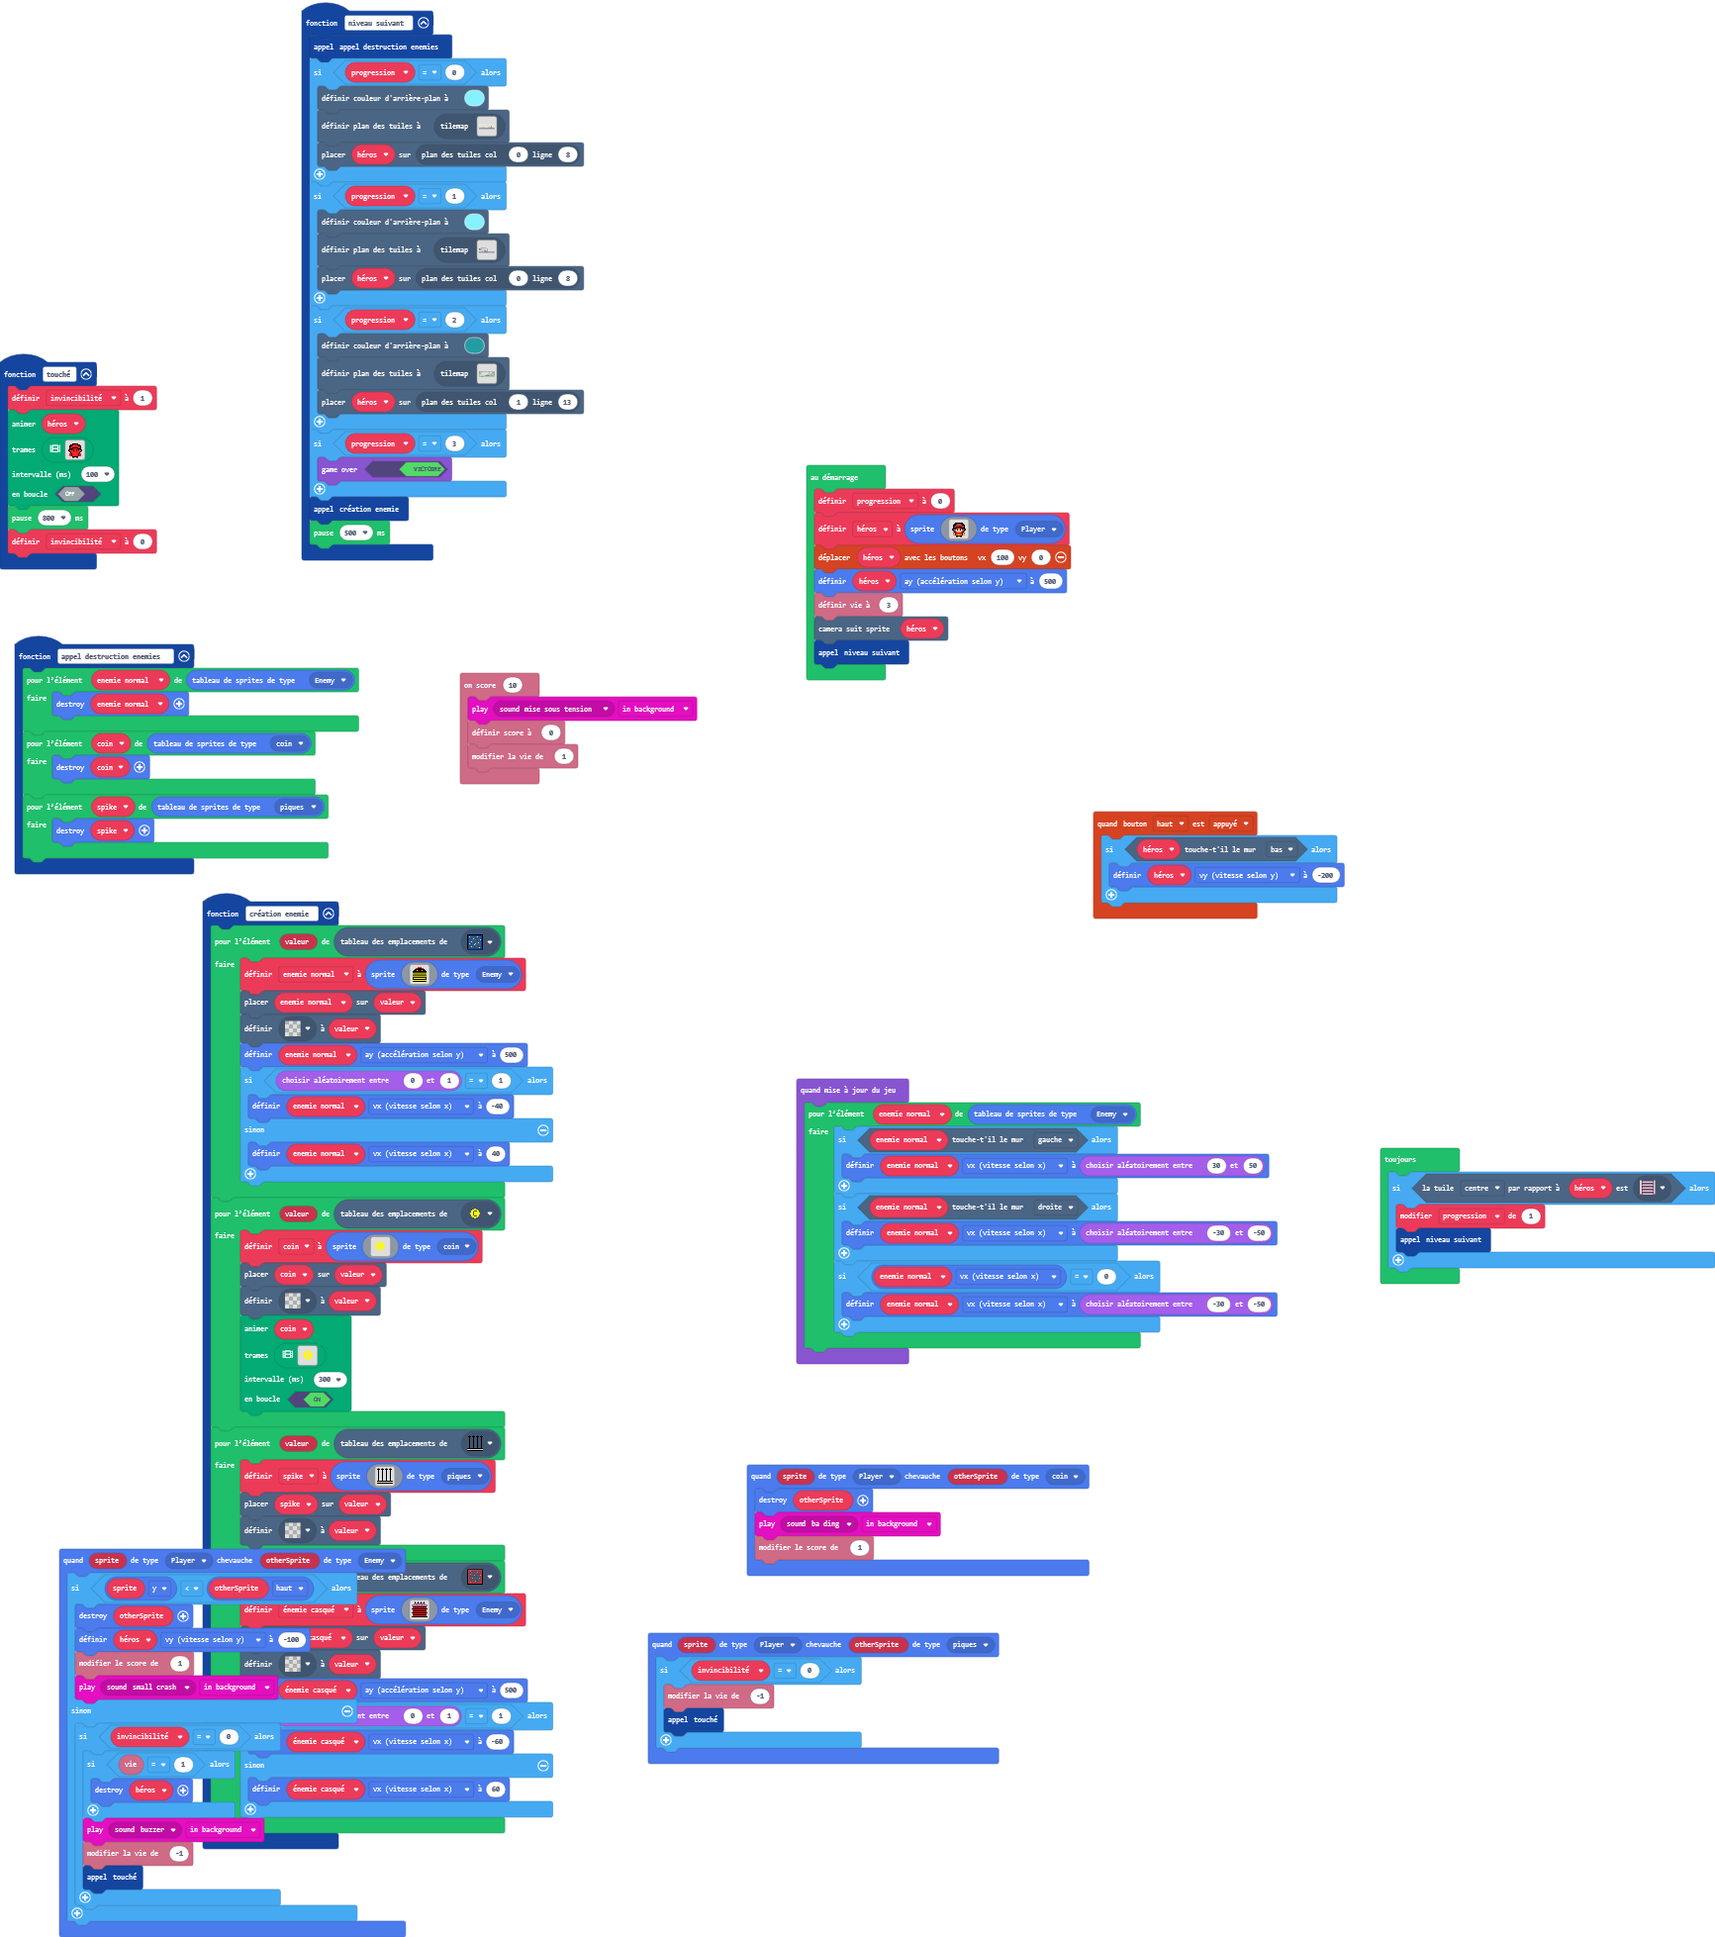
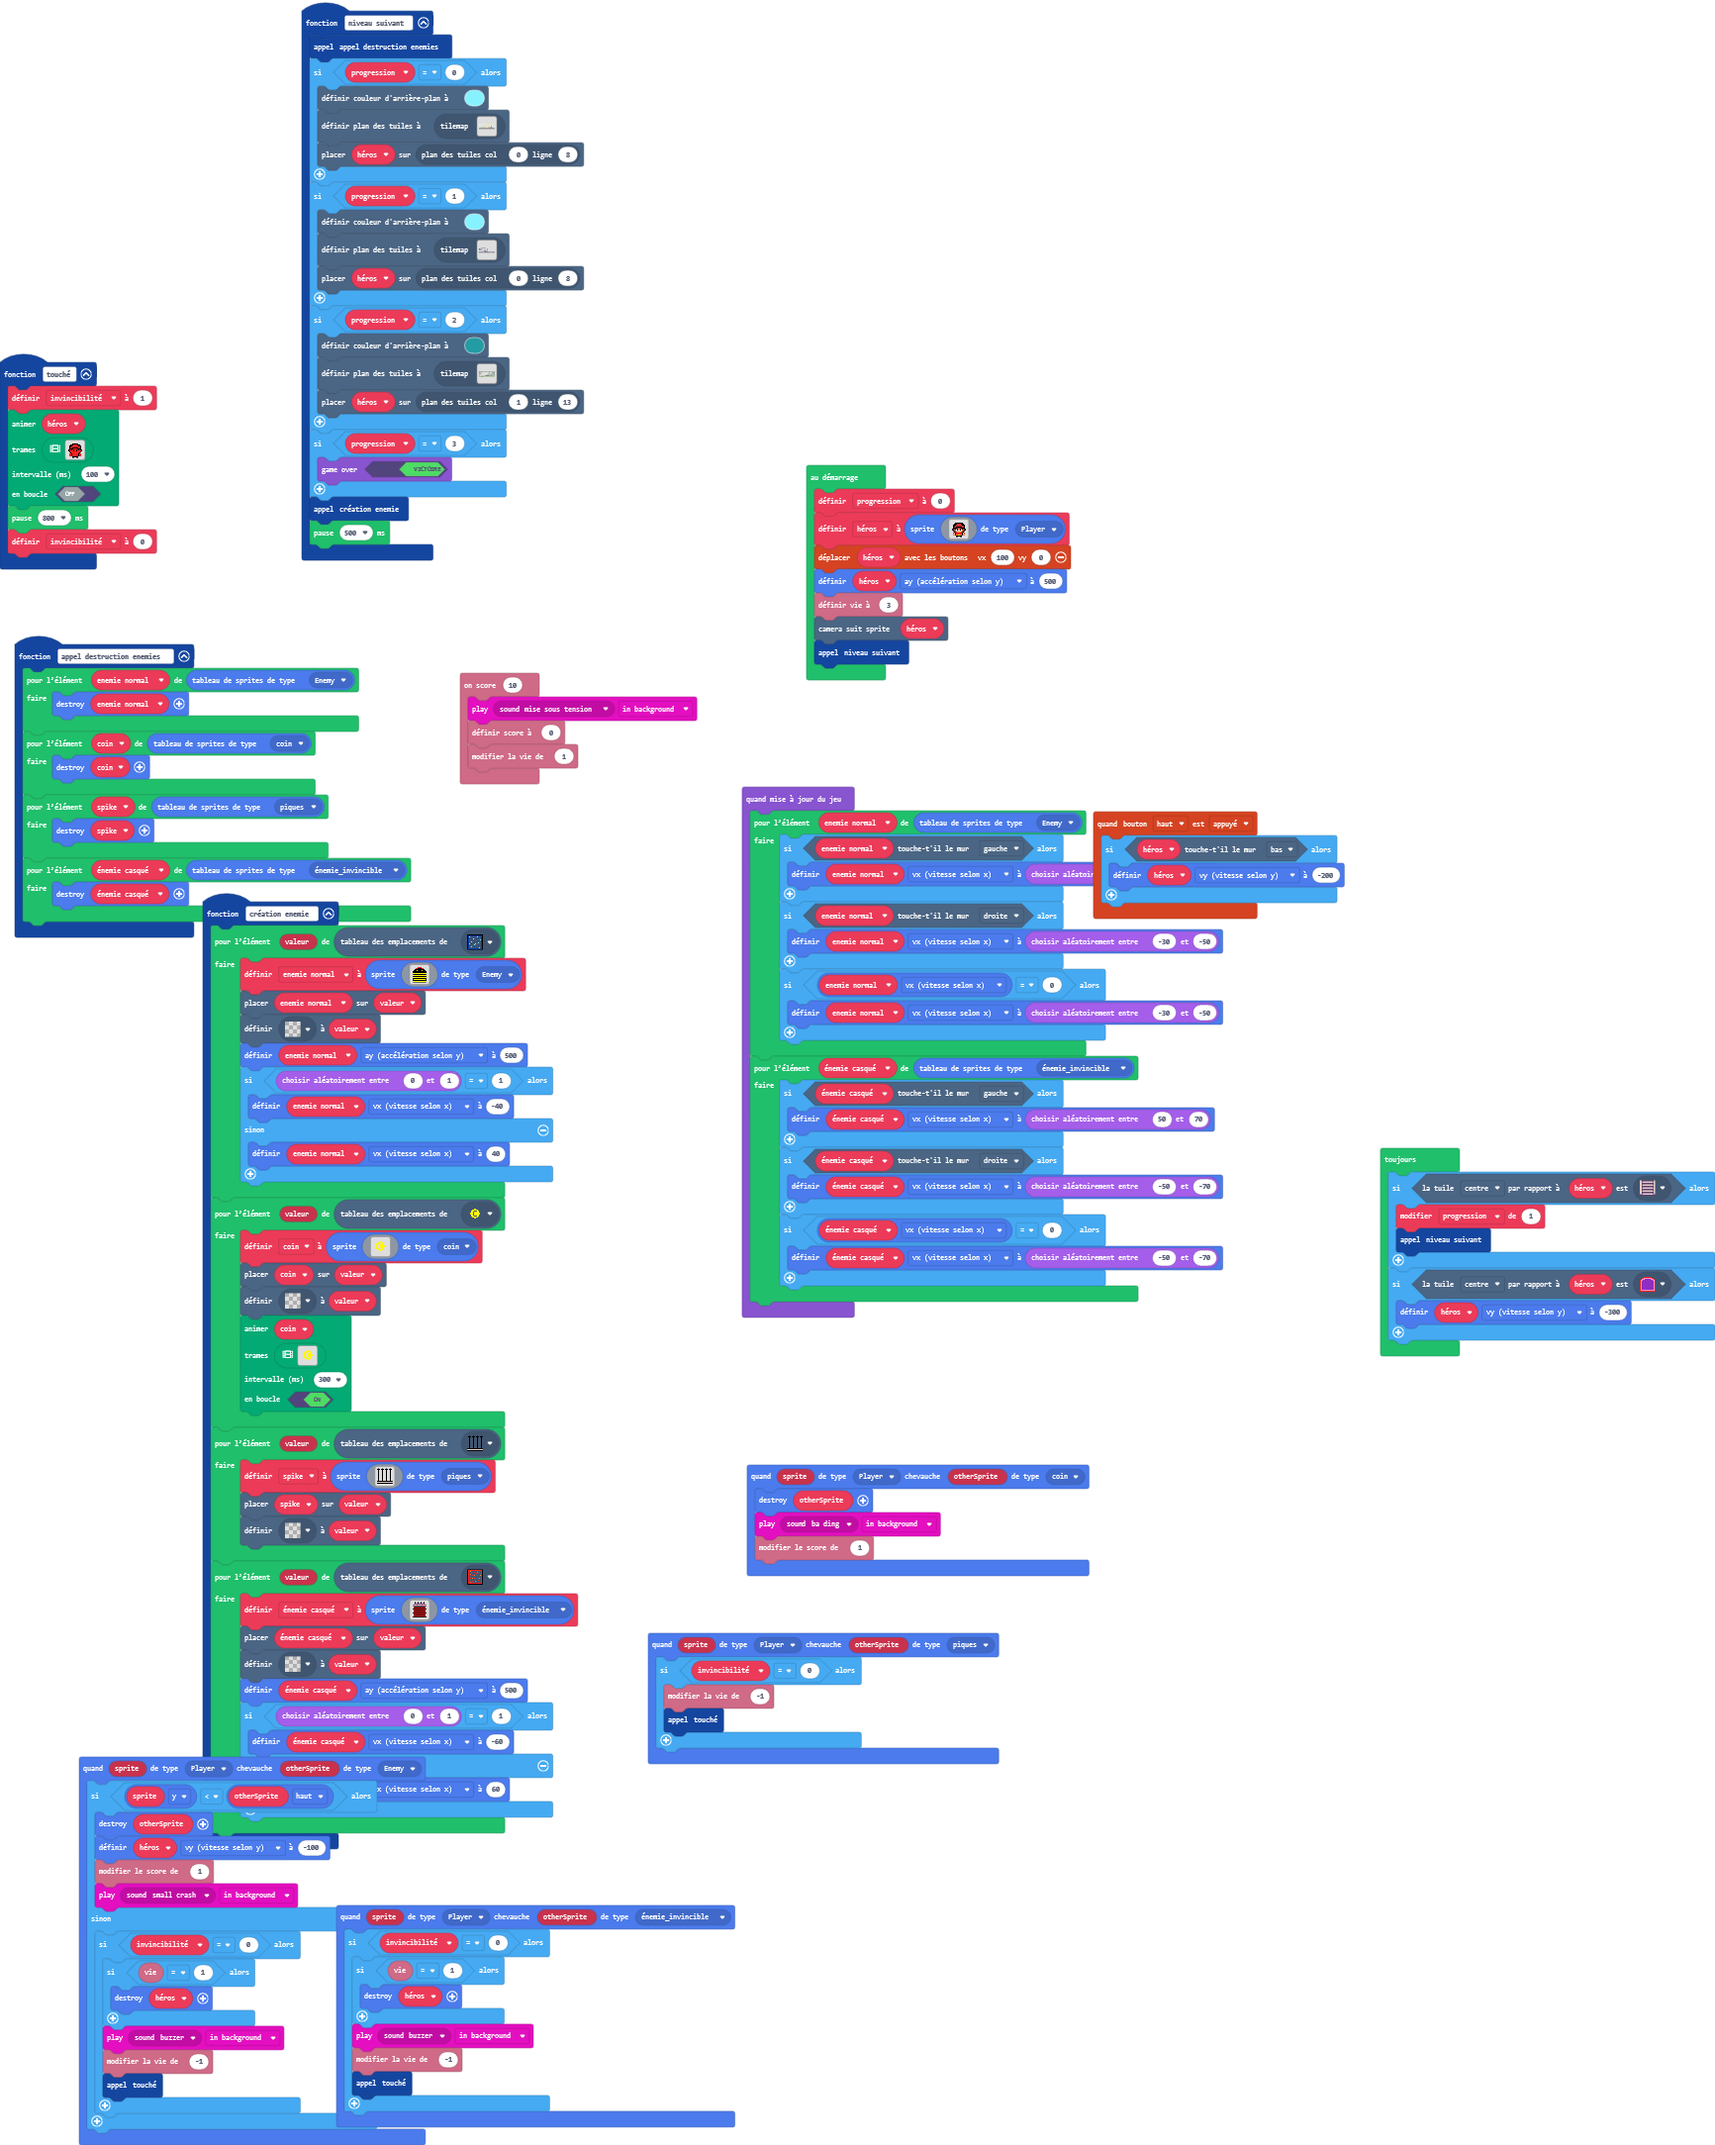
Mise à jour main.blocks, main.ts, tilemap.g.jres, tilemap.g.ts

Changed region(s): [[0.0, 0.0, 0.779, 1.0], [0.779, 0.5299, 1.0, 0.6857]]

diff --git a/tilemap.g.ts b/tilemap.g.ts
@@ -18,6 +18,8 @@ namespace myTiles {
     export const tile7 = image.ofBuffer(hex``);
     //% fixedInstance jres blockIdentity=images._tile
     export const tile8 = image.ofBuffer(hex``);
+    //% fixedInstance jres blockIdentity=images._tile
+    export const tile9 = image.ofBuffer(hex``);
 
     helpers._registerFactory("tilemap", function(name: string) {
         switch(helpers.stringTrim(name)) {
@@ -192,8 +194,21 @@ namespace myTiles {
 . . . . . . . . . . . . . . . . 
 . . . . . . . . . . . . . . . . 
 `, [myTiles.transparency16], TileScale.Sixteen);
+            case "monde1-1":
[1 lines of base64/hex data omitted]
+. . . . . . . . . . . . . . . . . . . . . . . . . . . . . . 
+. . . . . . . . . . . . . . . . . . . . . . . . . . . . . . 
+. . . . . . . . . . . . . . . . . . . . . . . . . . . . . . 
+. . . . . . . . . . . . . . . . . . . . . . . . . . . . . . 
+. . . . . . . . . . . . . . . . . . . . . . . 2 . . . . . . 
+. . . . . . . . . . . . . . . . . . . . . . . 2 . . . . . . 
+. . . . . . . . . . . . . . . . . . . . 2 . . 2 . . . . . . 
+. . . . 2 . . . . . 2 . . . . . . 2 . . 2 . . 2 . . . . . . 
+. . . . 2 . . . . . 2 . . . 2 . . 2 . . 2 . . 2 . . . . . . 
+2 2 2 2 2 2 2 2 2 2 2 2 2 2 2 2 2 2 2 2 2 2 2 2 2 2 2 2 2 2 
+`, [myTiles.transparency16,myTiles.tile1,sprites.builtin.forestTiles24,sprites.swamp.swampTile0,myTiles.tile3,sprites.dungeon.stairNorth,myTiles.tile5,myTiles.tile4,myTiles.tile6], TileScale.Sixteen);
             case "monde2-1":
[2 lines of base64/hex data omitted]
 2222222222222222222222222222222222222222
 2......................................2
 2.....222..............................2
@@ -209,22 +224,9 @@ namespace myTiles {
 2...2..2...2.........................2..
 2...2..2...2............................
 2222222222222222222222222222222222222222
-`, [myTiles.transparency16,myTiles.tile6,sprites.dungeon.floorLight1,sprites.dungeon.greenOuterNorth1,sprites.dungeon.greenOuterNorth0,myTiles.tile3,myTiles.tile4,sprites.dungeon.stairNorth,myTiles.tile2], TileScale.Sixteen);
-            case "monde1-1":
[1 lines of base64/hex data omitted]
-. . . . . . . . . . . . . . . . . . . . . . . . . . . . . . 
-. . . . . . . . . . . . . . . . . . . . . . . . . . . . . . 
-. . . . . . . . . . . . . . . . . . . . . . . . . . . . . . 
-. . . . . . . . . . . . . . . . . . . . . . . . . . . . . . 
-. . . . . . . . . . . . . . . . . . . . . . . 2 . . . . . . 
-. . . . . . . . . . . . . . . . . . . . . . . 2 . . . . . . 
-. . . . . . . . . . . . . . . . . . . . 2 . . 2 . . . . . . 
-. . . . 2 . . . . . 2 . . . . . . 2 . . 2 . . 2 . . . . . . 
-. . . . 2 . . . . . 2 . . . 2 . . 2 . . 2 . . 2 . . . . . . 
-2 2 2 2 2 2 2 2 2 2 2 2 2 2 2 2 2 2 2 2 2 2 2 2 2 2 2 2 2 2 
-`, [myTiles.transparency16,myTiles.tile1,sprites.builtin.forestTiles24,sprites.swamp.swampTile0,myTiles.tile3,sprites.dungeon.stairNorth,myTiles.tile5,myTiles.tile4,myTiles.tile6], TileScale.Sixteen);
+`, [myTiles.transparency16,myTiles.tile6,sprites.dungeon.floorLight1,sprites.dungeon.greenOuterNorth1,sprites.dungeon.greenOuterNorth0,myTiles.tile3,myTiles.tile4,sprites.dungeon.stairNorth,myTiles.tile2,myTiles.tile8], TileScale.Sixteen);
             case "monde1-2":
[2 lines of base64/hex data omitted]
 . . . . . . . . . . . . . . . . . . . . . . . . . . . . . . 
 . . . . . 2 2 2 2 2 2 2 2 . . . . . . . . . . . . . . . . . 
 . 2 2 2 2 . . . . . . . . . . 2 . . . . . . . . . . . . . . 
@@ -235,7 +237,7 @@ namespace myTiles {
 . . . . . . 2 . . . 2 2 2 . . 2 . . . . . . . . . . . . . . 
 . . . 2 . . 2 . . . 2 2 2 2 . 2 . . . . . . . . . . . . . . 
 2 2 2 2 2 2 2 2 2 2 2 2 2 2 2 2 2 2 2 2 2 2 2 2 2 2 2 2 2 2 
-`, [myTiles.transparency16,myTiles.tile6,sprites.swamp.swampTile1,sprites.builtin.forestTiles25,myTiles.tile7,sprites.dungeon.stairNorth,myTiles.tile4,myTiles.tile3], TileScale.Sixteen);
+`, [myTiles.transparency16,myTiles.tile6,sprites.swamp.swampTile1,sprites.builtin.forestTiles25,myTiles.tile7,sprites.dungeon.stairNorth,myTiles.tile4,myTiles.tile3,myTiles.tile8,myTiles.tile9], TileScale.Sixteen);
         }
         return null;
     })
@@ -259,6 +261,8 @@ namespace myTiles {
             case "tile7":return tile7;
             case "myTile5":
             case "tile8":return tile8;
+            case "myTile6":
+            case "tile9":return tile9;
         }
         return null;
     })

diff --git a/main.ts b/main.ts
@@ -1,6 +1,7 @@
 namespace SpriteKind {
     export const coin = SpriteKind.create()
     export const piques = SpriteKind.create()
+    export const énemie_invincible = SpriteKind.create()
 }
 function appel_destruction_enemies () {
     for (let enemie_normal2 of sprites.allOfKind(SpriteKind.Enemy)) {
@@ -11,6 +12,9 @@ function appel_destruction_enemies () {
     }
     for (let spike of sprites.allOfKind(SpriteKind.piques)) {
         sprites.destroy(spike)
+    }
+    for (let énemie_casqué2 of sprites.allOfKind(SpriteKind.énemie_invincible)) {
+        sprites.destroy(énemie_casqué2)
     }
 }
 info.onScore(10, function () {
@@ -27,6 +31,16 @@ sprites.onOverlap(SpriteKind.Player, SpriteKind.piques, function (sprite, otherS
 controller.up.onEvent(ControllerButtonEvent.Pressed, function () {
     if (héros.isHittingTile(CollisionDirection.Bottom)) {
         héros.vy = -200
+    }
+})
+sprites.onOverlap(SpriteKind.Player, SpriteKind.énemie_invincible, function (sprite, otherSprite) {
+    if (invincibilité == 0) {
+        if (info.life() == 1) {
+            sprites.destroy(héros)
+        }
+        music.play(music.melodyPlayable(music.buzzer), music.PlaybackMode.InBackground)
+        info.changeLifeBy(-1)
+        touché()
     }
 })
 sprites.onOverlap(SpriteKind.Player, SpriteKind.coin, function (sprite, otherSprite) {
@@ -152,20 +166,20 @@ function création_enemie () {
             . . . f . . f . . f . . f . . . 
             . . . f b b f b b f b b f . . . 
             . . b b b b b b b b b b b b . . 
-            b b b b b 2 b b b b 2 b b b b b 
-            b b b b b b b b b b b b b b b b 
+            . b b b b 2 b b b b 2 b b b b . 
+            . b b b b b b b b b b b b b b . 
+            . . f f f f f f f f f f f f . . 
+            . . 2 2 2 2 2 2 2 2 2 2 2 2 . . 
             . f f f f f f f f f f f f f f . 
-            . 2 2 2 2 2 2 2 2 2 2 2 2 2 2 . 
-            f f f f f f f f f f f f f f f f 
-            . 2 2 2 2 2 2 2 2 2 2 2 2 2 2 . 
+            . . 2 2 2 2 2 2 2 2 2 2 2 2 . . 
+            . . f f f f f f f f f f f f . . 
+            . . 2 2 2 2 2 2 2 2 2 2 2 2 . . 
             . f f f f f f f f f f f f f f . 
-            . 2 2 2 2 2 2 2 2 2 2 2 2 2 2 . 
-            f f f f f f f f f f f f f f f f 
-            . 2 2 2 2 2 2 2 2 2 2 2 2 2 2 . 
+            . . 2 2 2 2 2 2 2 2 2 2 2 2 . . 
+            . . f f f f f f f f f f f f . . 
+            . . 2 2 2 2 2 2 2 2 2 2 2 2 . . 
             . f f f f f f f f f f f f f f . 
-            . 2 2 2 2 2 2 2 2 2 2 2 2 2 2 . 
-            f f f f f f f f f f f f f f f f 
-            `, SpriteKind.Enemy)
+            `, SpriteKind.énemie_invincible)
         tiles.placeOnTile(énemie_casqué, valeur)
         tiles.setTileAt(valeur, assets.tile`transparency16`)
         énemie_casqué.ay = 500
@@ -406,10 +420,24 @@ game.onUpdate(function () {
             enemie_normal2.vx = randint(-30, -50)
         }
     }
+    for (let énemie_casqué2 of sprites.allOfKind(SpriteKind.énemie_invincible)) {
+        if (énemie_casqué2.isHittingTile(CollisionDirection.Left)) {
+            énemie_casqué2.vx = randint(50, 70)
+        }
+        if (énemie_casqué2.isHittingTile(CollisionDirection.Right)) {
+            énemie_casqué2.vx = randint(-50, -70)
+        }
+        if (énemie_casqué2.vx == 0) {
+            énemie_casqué2.vx = randint(-50, -70)
+        }
+    }
 })
 forever(function () {
     if (héros.tileKindAt(TileDirection.Center, sprites.dungeon.stairNorth)) {
         progression += 1
         niveau_suivant()
+    }
+    if (héros.tileKindAt(TileDirection.Center, assets.tile`myTile6`)) {
+        héros.vy = -300
     }
 })
